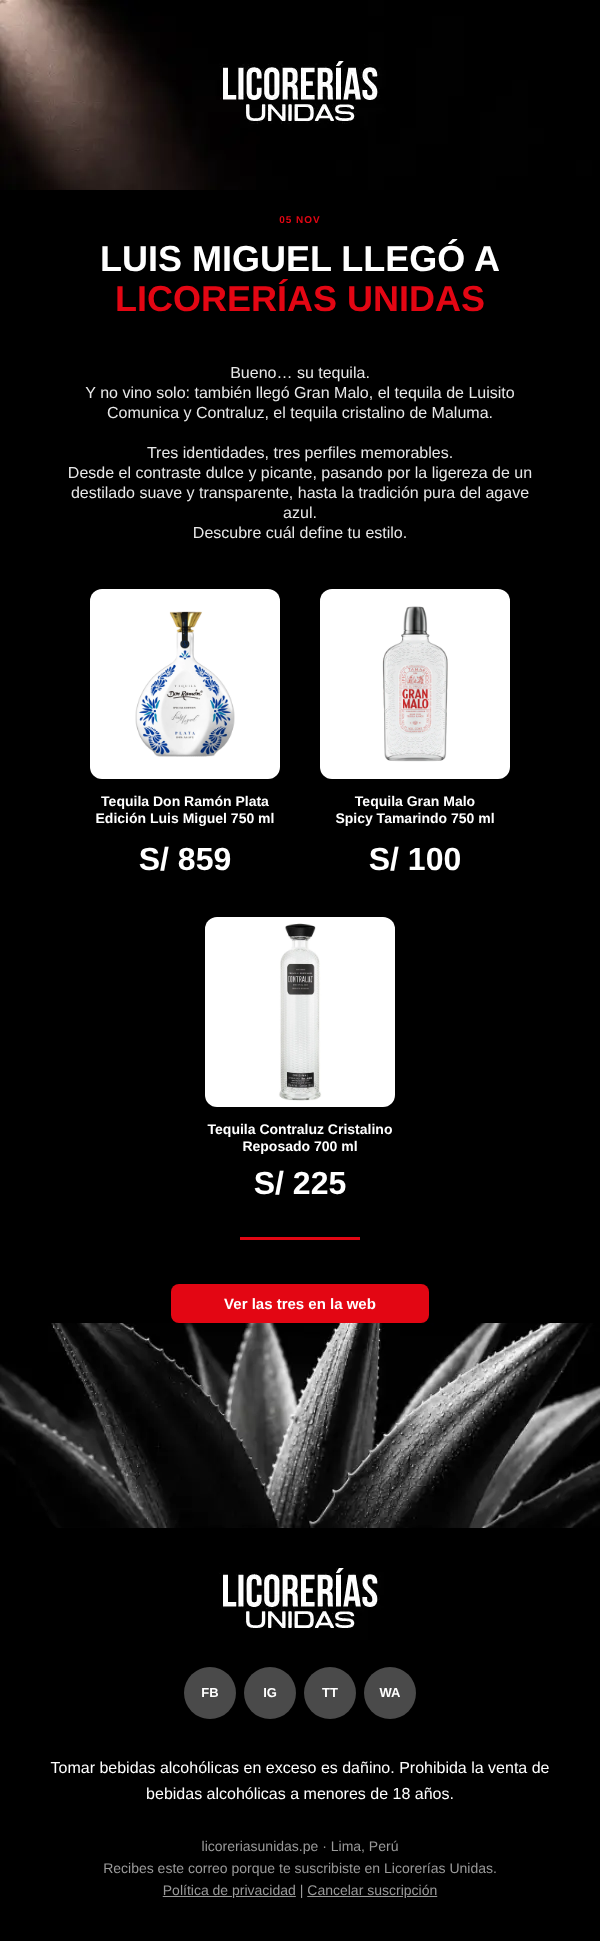
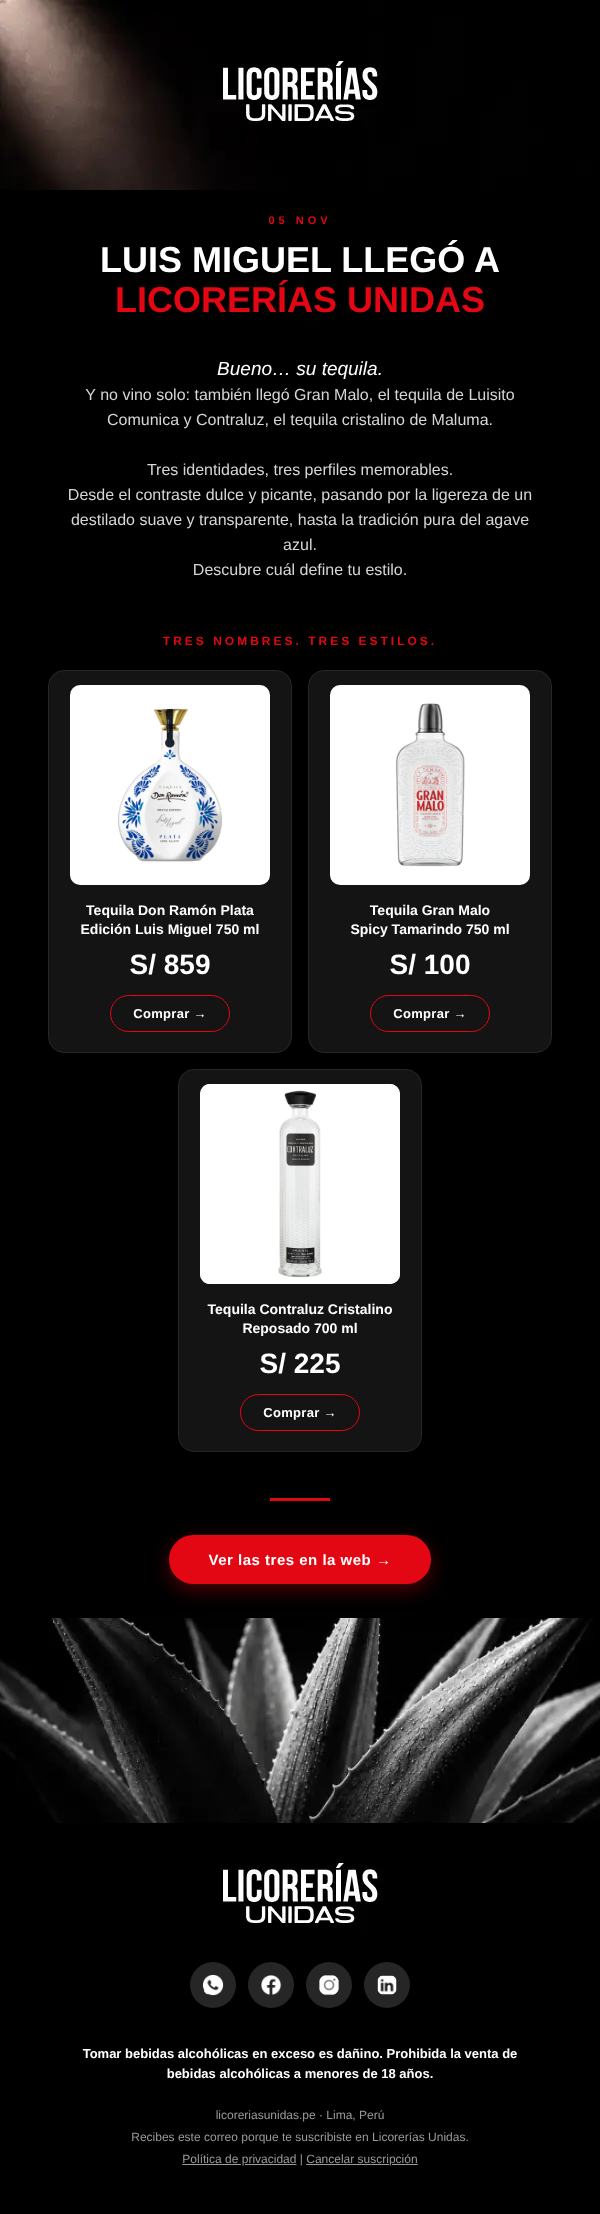
Mailing 05/11 v2: tarjetas, botones, espaciado e íconos sociales
Claude-Session: https://claude.ai/code/session_0148WGEnZfS2ZRp3UxJqiBn1

diff --git a/entregables/mailing_nov/2026-11-05_luis-miguel_v2.html b/entregables/mailing_nov/2026-11-05_luis-miguel_v2.html
@@ -27,48 +27,67 @@
 
   <!-- Fecha + titular -->
   <tr><td align="center" style="padding:24px 30px 0;font-family:Arial,Helvetica,sans-serif">
-    <div style="font-size:10px;letter-spacing:1px;color:#E30613;font-weight:bold">05 NOV</div>
+    <div style="font-size:11px;letter-spacing:4px;color:#E30613;font-weight:bold">05 NOV</div>
     <h1 class="h1" style="margin:14px 0 0;font-family:'Arial Black',Arial,Helvetica,sans-serif;font-weight:900;font-size:36px;line-height:40px;color:#FFFFFF;text-transform:uppercase">Luis Miguel llegó a<br><span style="color:#E30613">Licorerías Unidas</span></h1>
   </td></tr>
 
   <!-- Cuerpo -->
-  <tr><td align="center" style="padding:44px 60px 0;font-family:Arial,Helvetica,sans-serif;font-size:16px;line-height:20px;color:#E8E8E8">
-    Bueno… su tequila.<br>
+  <tr><td align="center" style="padding:36px 64px 0;font-family:Arial,Helvetica,sans-serif;font-size:16px;line-height:25px;color:#D6D6D6">
+    <span style="font-size:19px;color:#FFFFFF;font-style:italic">Bueno… su tequila.</span><br>
     Y no vino solo: también llegó Gran Malo, el tequila de Luisito Comunica y Contraluz, el tequila cristalino de Maluma.<br><br>
     Tres identidades, tres perfiles memorables.<br>
     Desde el contraste dulce y picante, pasando por la ligereza de un destilado suave y transparente, hasta la tradición pura del agave azul.<br>
     Descubre cuál define tu estilo.
   </td></tr>
 
-  <!-- Productos fila 1 -->
-  <tr><td style="padding:46px 70px 0">
+  <!-- Subtítulo productos -->
+  <tr><td align="center" style="padding:52px 30px 22px;font-family:Arial,Helvetica,sans-serif;font-size:12px;letter-spacing:3px;font-weight:bold;color:#E30613">TRES NOMBRES. TRES ESTILOS.</td></tr>
+  <!-- Productos -->
+  <tr><td style="padding:0 40px">
     <table role="presentation" width="100%" cellpadding="0" cellspacing="0" border="0"><tr>
-      <td class="col" width="50%" align="center" valign="top" style="padding:0 8px 30px;font-family:Arial,Helvetica,sans-serif">
-        <a href="https://licoreriasunidas.pe/products/tequila-don-ramon-plata-luis-miguel-botella-750ml?utm_source=email&utm_medium=email&utm_campaign=2026-11-05_nuevos-ingresos&utm_content=don-ramon"><img src="https://cdn.shopify.com/s/files/1/0723/4165/1736/files/PRODUCTOSLU-2026-10-26T123934.203.png?v=1793036380" width="190" alt="Tequila Don Ramón Plata Edición Luis Miguel" style="display:block;width:190px;height:auto;border:0;border-radius:12px;background:#FFFFFF"></a>
-        <div style="margin-top:14px;font-size:14px;line-height:17px;font-weight:bold;color:#FFFFFF">Tequila Don Ramón Plata<br>Edición Luis Miguel 750 ml</div>
-        <div style="margin-top:14px;font-size:32px;line-height:36px;font-weight:900;color:#FFFFFF">S/ 859</div>
+      <td class="col" width="50%" align="center" valign="top" style="padding:0 8px 16px">
+        <table role="presentation" width="100%" cellpadding="0" cellspacing="0" border="0" style="background:#141414;border:1px solid #262626;border-radius:16px">
+          <tr><td align="center" style="padding:14px 14px 0"><a href="https://licoreriasunidas.pe/products/tequila-don-ramon-plata-luis-miguel-botella-750ml?utm_source=email&utm_medium=email&utm_campaign=2026-11-05_nuevos-ingresos&utm_content=don-ramon"><img src="https://cdn.shopify.com/s/files/1/0723/4165/1736/files/PRODUCTOSLU-2026-10-26T123934.203.png?v=1793036380" width="200" alt="Tequila Don Ramón Plata Edición Luis Miguel" style="display:block;width:100%;max-width:200px;height:auto;border:0;border-radius:10px;background:#FFFFFF"></a></td></tr>
+          <tr><td align="center" style="padding:16px 12px 20px;font-family:Arial,Helvetica,sans-serif">
+            <div style="font-size:14px;line-height:19px;font-weight:bold;color:#FFFFFF;min-height:38px">Tequila Don Ramón Plata<br>Edición Luis Miguel 750 ml</div>
+            <div style="margin-top:10px;font-size:28px;line-height:32px;font-weight:900;color:#FFFFFF">S/ 859</div>
+            <a href="https://licoreriasunidas.pe/products/tequila-don-ramon-plata-luis-miguel-botella-750ml?utm_source=email&utm_medium=email&utm_campaign=2026-11-05_nuevos-ingresos&utm_content=don-ramon" style="display:inline-block;margin-top:14px;padding:10px 22px;border:1.5px solid #E30613;border-radius:999px;font-size:13px;font-weight:bold;letter-spacing:.3px;color:#FFFFFF">Comprar &rarr;</a>
+          </td></tr>
+        </table>
       </td>
-      <td class="col" width="50%" align="center" valign="top" style="padding:0 8px 30px;font-family:Arial,Helvetica,sans-serif">
-        <a href="https://licoreriasunidas.pe/products/tequila-gran-malo-spicy-tamarindo-botella-750ml?utm_source=email&utm_medium=email&utm_campaign=2026-11-05_nuevos-ingresos&utm_content=gran-malo"><img src="https://cdn.shopify.com/s/files/1/0723/4165/1736/files/PRODUCTOSLU-2026-10-31T153011.092.png?v=1793478617" width="190" alt="Tequila Gran Malo Spicy Tamarindo" style="display:block;width:190px;height:auto;border:0;border-radius:12px;background:#FFFFFF"></a>
-        <div style="margin-top:14px;font-size:14px;line-height:17px;font-weight:bold;color:#FFFFFF">Tequila Gran Malo<br>Spicy Tamarindo 750 ml</div>
-        <div style="margin-top:14px;font-size:32px;line-height:36px;font-weight:900;color:#FFFFFF">S/ 100</div>
+      <td class="col" width="50%" align="center" valign="top" style="padding:0 8px 16px">
+        <table role="presentation" width="100%" cellpadding="0" cellspacing="0" border="0" style="background:#141414;border:1px solid #262626;border-radius:16px">
+          <tr><td align="center" style="padding:14px 14px 0"><a href="https://licoreriasunidas.pe/products/tequila-gran-malo-spicy-tamarindo-botella-750ml?utm_source=email&utm_medium=email&utm_campaign=2026-11-05_nuevos-ingresos&utm_content=gran-malo"><img src="https://cdn.shopify.com/s/files/1/0723/4165/1736/files/PRODUCTOSLU-2026-10-31T153011.092.png?v=1793478617" width="200" alt="Tequila Gran Malo Spicy Tamarindo" style="display:block;width:100%;max-width:200px;height:auto;border:0;border-radius:10px;background:#FFFFFF"></a></td></tr>
+          <tr><td align="center" style="padding:16px 12px 20px;font-family:Arial,Helvetica,sans-serif">
+            <div style="font-size:14px;line-height:19px;font-weight:bold;color:#FFFFFF;min-height:38px">Tequila Gran Malo<br>Spicy Tamarindo 750 ml</div>
+            <div style="margin-top:10px;font-size:28px;line-height:32px;font-weight:900;color:#FFFFFF">S/ 100</div>
+            <a href="https://licoreriasunidas.pe/products/tequila-gran-malo-spicy-tamarindo-botella-750ml?utm_source=email&utm_medium=email&utm_campaign=2026-11-05_nuevos-ingresos&utm_content=gran-malo" style="display:inline-block;margin-top:14px;padding:10px 22px;border:1.5px solid #E30613;border-radius:999px;font-size:13px;font-weight:bold;letter-spacing:.3px;color:#FFFFFF">Comprar &rarr;</a>
+          </td></tr>
+        </table>
+      </td>
+    </tr></table>
+  </td></tr>
+  <tr><td align="center" style="padding:0 40px">
+    <table role="presentation" width="50%" cellpadding="0" cellspacing="0" border="0" class="col" style="margin:0 auto"><tr>
+      <td class="col" width="100%" align="center" valign="top" style="padding:0 8px 16px">
+        <table role="presentation" width="100%" cellpadding="0" cellspacing="0" border="0" style="background:#141414;border:1px solid #262626;border-radius:16px">
+          <tr><td align="center" style="padding:14px 14px 0"><a href="https://licoreriasunidas.pe/products/tequila-contraluz-reposado-botella-750ml?utm_source=email&utm_medium=email&utm_campaign=2026-11-05_nuevos-ingresos&utm_content=contraluz"><img src="https://cdn.shopify.com/s/files/1/0723/4165/1736/files/43393-1.webp?v=1793892297" width="200" alt="Tequila Contraluz Cristalino Reposado" style="display:block;width:100%;max-width:200px;height:auto;border:0;border-radius:10px;background:#FFFFFF"></a></td></tr>
+          <tr><td align="center" style="padding:16px 12px 20px;font-family:Arial,Helvetica,sans-serif">
+            <div style="font-size:14px;line-height:19px;font-weight:bold;color:#FFFFFF;min-height:38px">Tequila Contraluz Cristalino<br>Reposado 700 ml</div>
+            <div style="margin-top:10px;font-size:28px;line-height:32px;font-weight:900;color:#FFFFFF">S/ 225</div>
+            <a href="https://licoreriasunidas.pe/products/tequila-contraluz-reposado-botella-750ml?utm_source=email&utm_medium=email&utm_campaign=2026-11-05_nuevos-ingresos&utm_content=contraluz" style="display:inline-block;margin-top:14px;padding:10px 22px;border:1.5px solid #E30613;border-radius:999px;font-size:13px;font-weight:bold;letter-spacing:.3px;color:#FFFFFF">Comprar &rarr;</a>
+          </td></tr>
+        </table>
       </td>
     </tr></table>
   </td></tr>
 
-  <!-- Producto 3 centrado -->
-  <tr><td align="center" style="padding:10px 0 0;font-family:Arial,Helvetica,sans-serif">
-    <a href="https://licoreriasunidas.pe/products/tequila-contraluz-reposado-botella-750ml?utm_source=email&utm_medium=email&utm_campaign=2026-11-05_nuevos-ingresos&utm_content=contraluz"><img src="https://cdn.shopify.com/s/files/1/0723/4165/1736/files/43393-1.webp?v=1793892297" width="190" alt="Tequila Contraluz Cristalino Reposado" style="display:block;width:190px;height:auto;border:0;border-radius:12px;background:#FFFFFF"></a>
-    <div style="margin-top:14px;font-size:14px;line-height:17px;font-weight:bold;color:#FFFFFF">Tequila Contraluz Cristalino<br>Reposado 700 ml</div>
-    <div style="margin-top:10px;font-size:32px;line-height:36px;font-weight:900;color:#FFFFFF">S/ 225</div>
-  </td></tr>
-
   <!-- Divisor rojo -->
-  <tr><td align="center" style="padding:36px 0 0"><div style="width:120px;height:3px;background:#E30613;line-height:3px;font-size:0">&nbsp;</div></td></tr>
+  <tr><td align="center" style="padding:30px 0 0"><div style="width:60px;height:3px;background:#E30613;line-height:3px;font-size:0">&nbsp;</div></td></tr>
 
   <!-- CTA -->
-  <tr><td align="center" style="padding:44px 0 0">
-    <a href="https://licoreriasunidas.pe/?utm_source=email&utm_medium=email&utm_campaign=2026-11-05_nuevos-ingresos&utm_content=cta" style="display:inline-block;width:258px;padding:11px 0;background:#E30613;border-radius:8px;font-family:Arial,Helvetica,sans-serif;font-size:15px;font-weight:bold;color:#FFFFFF;text-align:center">Ver las tres en la web</a>
+  <tr><td align="center" style="padding:34px 0 34px">
+    <a href="https://licoreriasunidas.pe/?utm_source=email&utm_medium=email&utm_campaign=2026-11-05_nuevos-ingresos&utm_content=cta" style="display:inline-block;padding:16px 40px;background:#E30613;border-radius:999px;font-family:Arial,Helvetica,sans-serif;font-size:15px;font-weight:bold;letter-spacing:.5px;color:#FFFFFF;text-align:center;box-shadow:0 6px 20px rgba(227,6,19,.35)">Ver las tres en la web &rarr;</a>
   </td></tr>
 
   <!-- Agave (AGAVE_URL) -->
@@ -77,12 +96,12 @@
   <!-- Footer -->
   <tr><td align="center" style="padding:30px 30px 0"><img src="img/logo_footer.png" width="200" alt="Licorerías Unidas" style="display:block;width:200px;height:auto;border:0"></td></tr>
   <tr><td align="center" style="padding:24px 0 0;font-family:Arial,Helvetica,sans-serif">
-    <a href="https://www.facebook.com/" style="display:inline-block;width:52px;height:52px;line-height:52px;border-radius:26px;background:#4A4A4A;color:#FFFFFF;font-size:13px;font-weight:bold;margin:0 4px">FB</a><a href="https://www.instagram.com/" style="display:inline-block;width:52px;height:52px;line-height:52px;border-radius:26px;background:#4A4A4A;color:#FFFFFF;font-size:13px;font-weight:bold;margin:0 4px">IG</a><a href="https://www.tiktok.com/" style="display:inline-block;width:52px;height:52px;line-height:52px;border-radius:26px;background:#4A4A4A;color:#FFFFFF;font-size:13px;font-weight:bold;margin:0 4px">TT</a><a href="https://wa.me/" style="display:inline-block;width:52px;height:52px;line-height:52px;border-radius:26px;background:#4A4A4A;color:#FFFFFF;font-size:13px;font-weight:bold;margin:0 4px">WA</a>
+    <a href="https://wa.me/51XXXXXXXXX" style="display:inline-block;margin:0 6px"><img src="https://img.icons8.com/ios-filled/96/ffffff/whatsapp.png" width="22" height="22" alt="WhatsApp" style="display:block;width:22px;height:22px;border:0;padding:12px;background:#262626;border-radius:23px"></a><a href="https://www.facebook.com/" style="display:inline-block;margin:0 6px"><img src="https://img.icons8.com/ios-filled/96/ffffff/facebook-new.png" width="22" height="22" alt="Facebook" style="display:block;width:22px;height:22px;border:0;padding:12px;background:#262626;border-radius:23px"></a><a href="https://www.instagram.com/" style="display:inline-block;margin:0 6px"><img src="https://img.icons8.com/ios-filled/96/ffffff/instagram-new.png" width="22" height="22" alt="Instagram" style="display:block;width:22px;height:22px;border:0;padding:12px;background:#262626;border-radius:23px"></a><a href="https://www.linkedin.com/" style="display:inline-block;margin:0 6px"><img src="https://img.icons8.com/ios-filled/96/ffffff/linkedin.png" width="22" height="22" alt="LinkedIn" style="display:block;width:22px;height:22px;border:0;padding:12px;background:#262626;border-radius:23px"></a>
   </td></tr>
-  <tr><td align="center" style="padding:36px 50px 0;font-family:Arial,Helvetica,sans-serif;font-size:16px;line-height:26px;color:#FFFFFF">
+  <tr><td align="center" style="padding:32px 60px 0;font-family:Arial,Helvetica,sans-serif;font-size:13px;line-height:20px;font-weight:bold;color:#FFFFFF">
     Tomar bebidas alcohólicas en exceso es dañino. Prohibida la venta de bebidas alcohólicas a menores de 18 años.
   </td></tr>
-  <tr><td align="center" style="padding:28px 30px 40px;font-family:Arial,Helvetica,sans-serif;font-size:14px;line-height:22px;color:#9A9A9A">
+  <tr><td align="center" style="padding:20px 30px 44px;font-family:Arial,Helvetica,sans-serif;font-size:12px;line-height:22px;color:#9A9A9A">
     licoreriasunidas.pe · Lima, Perú<br>
     Recibes este correo porque te suscribiste en Licorerías Unidas.<br>
     <a href="https://licoreriasunidas.pe/policies/privacy-policy" style="color:#9A9A9A;text-decoration:underline">Política de privacidad</a> | <a href="{{ unsubscribe_link }}" style="color:#9A9A9A;text-decoration:underline">Cancelar suscripción</a>
